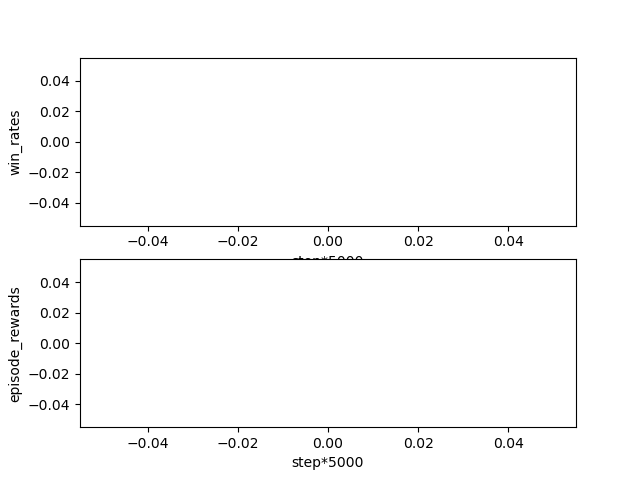
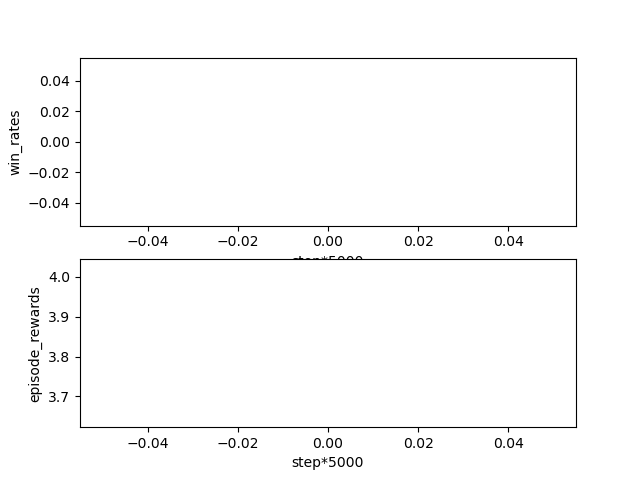
atten_dan

Changed region(s): [[0.0, 0.5625, 0.125, 0.875]]

diff --git a/network/avdn_net.py b/network/avdn_net.py
@@ -12,23 +12,66 @@ class AVDNNet(nn.Module):
         self.k = nn.Linear(args.rnn_hidden_dim, args.attention_dim, bias=False)
         self.v = nn.Linear(args.rnn_hidden_dim, args.attention_dim)
         self.attn = nn.MultiheadAttention(args.attention_dim, 2)
+
+        self.state_w1 = nn.Linear(args.state_shape, args.n_agents * args.qmix_hidden_dim)
+        self.state_w2 = nn.Linear(args.state_shape, args.qmix_hidden_dim * 1)
+
+        self.state_b1 = nn.Linear(args.state_shape, args.qmix_hidden_dim)
+        self.state_b2 =nn.Sequential(nn.Linear(args.state_shape, args.qmix_hidden_dim),
+                                     nn.ReLU(),
+                                     nn.Linear(args.qmix_hidden_dim, 1))
+
         self.fc1 = nn.Linear(args.attention_dim, input_shape)
 
-    def forward(self, q_values):
-        b, t, n, nq = q_values.shape
-        x = q_values.reshape(b*t, n, nq)
-        mask = x.mean(dim=2)<-999999
+    def forward(self, z_values, states):
+        b, t, n, nq = z_values.shape
+        z_values = z_values.reshape(b*t, n, nq) # b*t, n, nq
+        mask = z_values.mean(dim=2)<-999999
         mask = mask.clone().detach()
         mask = mask.permute(1,0)
         if self.args.cuda:
             mask = mask.cuda()
-        obs_emb = f.relu(self.encoding(x))
+        obs_emb = f.relu(self.encoding(z_values))  
 
         q = self.q(obs_emb)  # b*t, n, 64
         k = self.k(obs_emb)  # b*t, 64, n -> bt, n, n
         v = self.v(obs_emb)
 
         o, w = self.attn(q,k,v,mask)
-        o = o.sum(dim=1)
-        out = o.reshape(b, t, 1, nq)
-        return out
+        o = o.reshape(b, t, n, nq)
+        Z_att_total = o.sum(dim=2, keepdim=True) # b, t, 1, nq
+
+        Q_att_total = o.mean(dim=3, keepdim=True).sum(dim=2, keepdim=True).expand(-1,-1,-1,nq)  # b,t,1,nq
+
+        q_values = z_values.mean(dim=2) # b*t, n
+        Q_mix = self.forward_qmix(q_values, states).expand(-1,-1,-1,nq)
+
+        return Z_att_total - Q_att_total + Q_mix
+
+        # q_mixture : b, t, 1, nq  (sum n)
+        # q_vals_expected : b, t, n, 1 (mean nq)
+        # q_vals_sum : b, t, 1, 1  (Q_total)
+        # q_joint_expected: b, t, 1, 1 (Q mix, from q_vals_expected)
+        # q_mixture - q_vals_sum + q_joint_expected (Ztotal - Q_total + Q_mix) = Z mix
+        # Z_att_total - E(Z_att_total) + Q_mix
+    
+    def forward_qmix(self, q_values, states):
+        n = q_values.shape[-1]
+        b, t, s = states.shape
+        q_values = q_values.view(-1, 1, n) 
+        states = states.reshape(-1, s)  # bt, s
+        w1 = torch.abs(self.state_w1(states))
+        b1 = self.state_b1(states)
+        w1 = w1.view(-1, n, self.args.qmix_hidden_dim)
+        b1 = b1.view(-1, 1, self.args.qmix_hidden_dim)
+
+        x = f.elu(torch.bmm(q_values, w1) +b1)
+
+        w2 = torch.abs(self.state_w2(states))
+        w2 = w2.view(-1, self.args.qmix_hidden_dim, 1)
+        b2 = self.state_b2(states).view(-1, 1, 1)
+
+        out = torch.bmm(x, w2) +b2
+
+        qmix = out.view(b,t, 1,1)
+        return qmix

diff --git a/policy/ddn.py b/policy/ddn.py
@@ -70,7 +70,7 @@ class DDN:
         # 学习过程中，要为每个episode的每个agent都维护一个eval_hidden、target_hidden
         self.eval_hidden = None
         self.target_hidden = None
-        print('Init alg DDN')
+        print('Init alg', self.args.alg)
 
     def learn(self, batch, max_episode_len, train_step, epsilon=None):  # train_step表示是第几次学习，用来控制更新target_net网络的参数
         '''
@@ -87,11 +87,14 @@ class DDN:
             else:
                 batch[key] = torch.tensor(batch[key], dtype=torch.float32)
         # TODO pymarl中取得经验没有取最后一条，找出原因
-        u, r, avail_u, avail_u_next, terminated = batch['u'], batch['r'],  batch['avail_u'], \
-                                                  batch['avail_u_next'], batch['terminated']
+        s, s_next, u, r, avail_u, avail_u_next, terminated = batch['s'], batch['s_next'], \
+                                                             batch['u'], batch['r'],  batch['avail_u'], \
+                                                             batch['avail_u_next'], batch['terminated']
 
         mask = 1 - batch["padded"].float()  # 用来把那些填充的经验的TD-error置0，从而不让它们影响到学习
         if self.args.cuda:
+            s = s.cuda()
+            s_next = s_next.cuda()
             u = u.cuda()
             r = r.cuda()
             mask = mask.cuda()
@@ -109,16 +112,16 @@ class DDN:
         Z_targets[target_avail_actions==0] = -9999999
 
         target_max_actions = Z_targets.mean(dim=4).max(dim=3,keepdim=True)[1]  # (b, t, n, 1) argmax E(Z)
-        target_max_actions = target_max_actions.unsqueeze(4).expand(-1,-1,-1,-1, self.ntq) # (b,t,n,1,ntq)
-        target_max_Zs = torch.gather(Z_targets, dim=3, index=target_max_actions).squeeze(3) #(b,t,n,ntq)
+        target_max_actions = target_max_actions.unsqueeze(4).expand(-1,-1,-1,-1, self.ntq) # (b,t,n,1,ntq) 
+        target_max_Zs = torch.gather(Z_targets, dim=3, index=target_max_actions).squeeze(3) #(b,t,n,ntq)  
 
         # Mixer
         if self.args.alg == 'ddn':
             chosen_action_Z = self.eval_vdn_net(chosen_action_Zs)  # chosen_action_zs: (b, t, n, nq) -> (b,t,nq)
             target_max_Z = self.target_vdn_net(target_max_Zs)
         elif self.args.alg == 'dan':
-            chosen_action_Z = self.eval_vdn_net(chosen_action_Zs)  # chosen_action_zs: (b, t, n, nq) -> (b,t,nq)
-            target_max_Z = self.target_vdn_net(target_max_Zs)    # b, t, ntq
+            chosen_action_Z = self.eval_vdn_net(chosen_action_Zs, s)  # chosen_action_zs: (b, t, n, nq) -> (b,t,nq)
+            target_max_Z = self.target_vdn_net(target_max_Zs, s_next)    # b, t, ntq
         
         targets = r.unsqueeze(3) + (self.args.gamma * (1-terminated)).unsqueeze(3) * target_max_Z
         # targets (b, t, 1, ntq)
